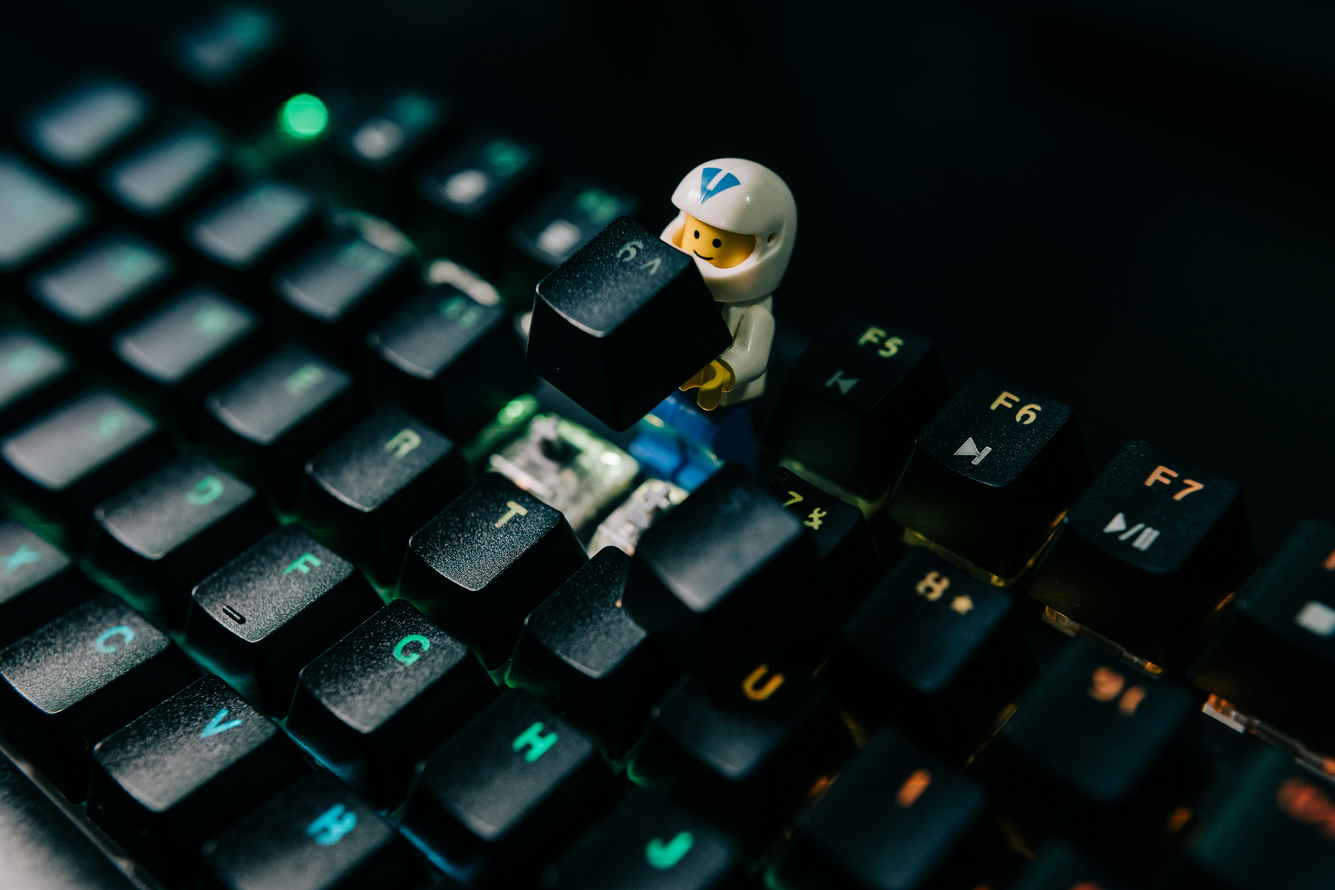
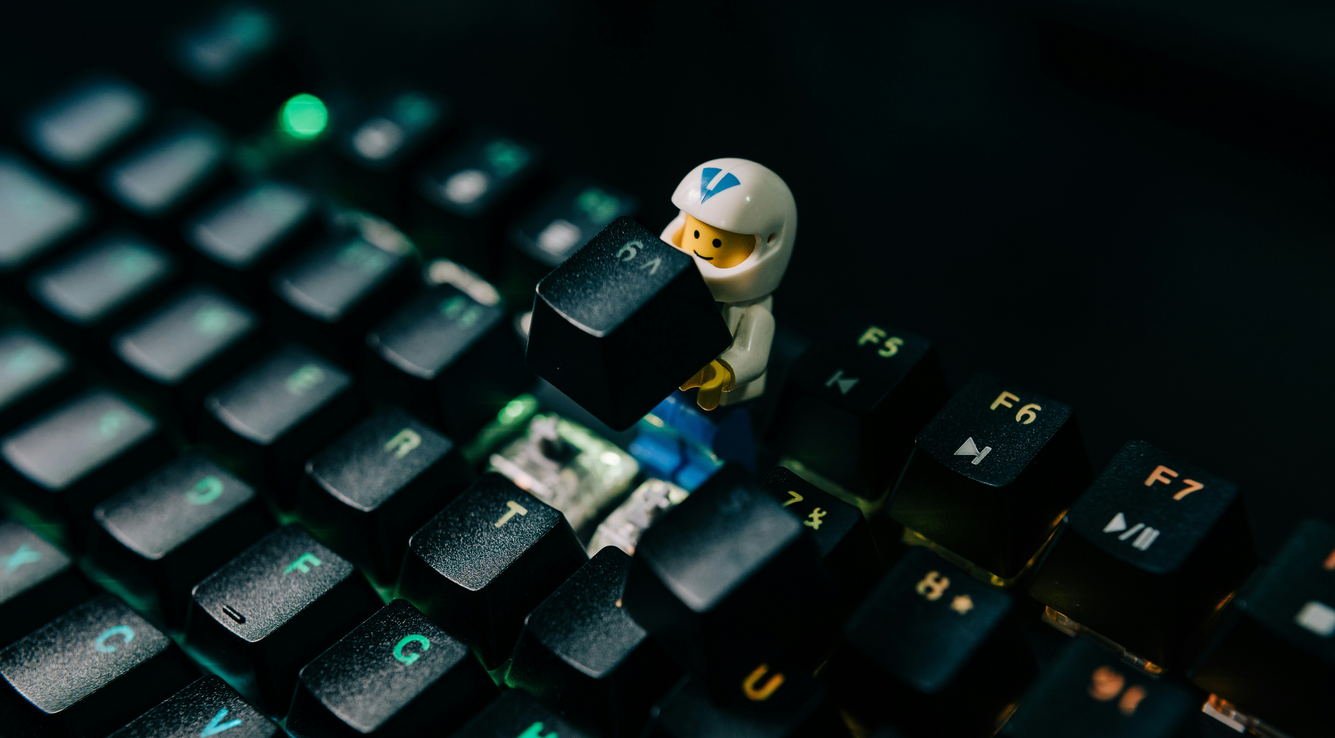
ana sayfa devamı

diff --git a/styles.css b/styles.css
@@ -1,13 +1,25 @@
-/* Navbar Container */
+/* Temel Sıfırlama */
+* {
+    margin: 0;
+    padding: 0;
+    box-sizing: border-box;
+}
+
+body {
+    overflow-x: hidden;
+    font-family: 'InstrumentSans-Bold', sans-serif;
+}
+
+/* Navbar Container - TAM EKRAN */
 .navbar-container {
-    width: 100%;
+    width: 100vw;
     background: #fff;
     box-shadow: 0 2px 10px rgba(0,0,0,0.1);
     position: relative;
     z-index: 1000;
 }
 
-/* Navbar Ana Yapı */
+/* Navbar İçerik - Merkezleme */
 .navbar {
     max-width: 1440px;
     margin: 0 auto;
@@ -19,26 +31,28 @@
 }
 
 /* Logo Alanı */
+/* Logo Alanı */
 .logo-container {
-    flex: 1;
+    flex: 0 1 auto; /* flex-grow, flex-shrink, flex-basis değerlerini değiştirdik */
+    margin-right: 50px; /* Logoyu sola itmek için */
+    padding-left: 0px; /* Sol taraftan boşluk ekledik */
 }
 
 .logo {
     height: 150px;
     width: 280px;
-    
+    object-fit: contain; /* Logo oranlarını korumak için */
 }
 
 /* Menü Öğeleri */
 .nav-menu {
     display: flex;
-    gap: 45px;
+    gap: 30px;
     margin: 0 50px;
 }
 
 .nav-item {
     color: #206896;
-    font-family: 'InstrumentSans-Bold', sans-serif;
     font-size: 16px;
     font-weight: 700;
     text-decoration: none;
@@ -59,7 +73,6 @@
 
 .login-btn {
     color: #206896;
-    font-family: 'InstrumentSans-Bold', sans-serif;
     font-size: 16px;
     font-weight: 700;
     text-decoration: none;
@@ -71,7 +84,6 @@
     color: white;
     border-radius: 4px;
     padding: 8px 20px;
-    font-family: 'InstrumentSans-Bold', sans-serif;
     font-size: 16px;
     font-weight: 700;
     text-decoration: none;
@@ -80,6 +92,20 @@
 
 .register-btn:hover {
     background-color: #027772;
+}
+
+/* Ana Resim - TAM EKRAN */
+.main-image-container {
+    width: 100vw;
+    height: calc(100vh - 80px);
+    overflow: hidden;
+}
+
+.main-image {
+    width: 100%;
+    height: 100%;
+    object-fit: cover;
+    object-position: center;
 }
 
 /* Responsive Tasarım */
@@ -110,17 +136,8 @@
     .auth-buttons {
         margin-top: 10px;
     }
-}
-/* Ana Resim Stilleri */
-.main-image-container {
-    width: 100%;
-    height: calc(100vh - 80px); /* Navbar yüksekliğini çıkarır */
-    overflow: hidden;
-}
-
-.main-image {
-    width: 100%;
-    height: 100%;
-    object-fit: cover;
-    object-position: center;
+    
+    .main-image-container {
+        height: 60vh;
+    }
 }
